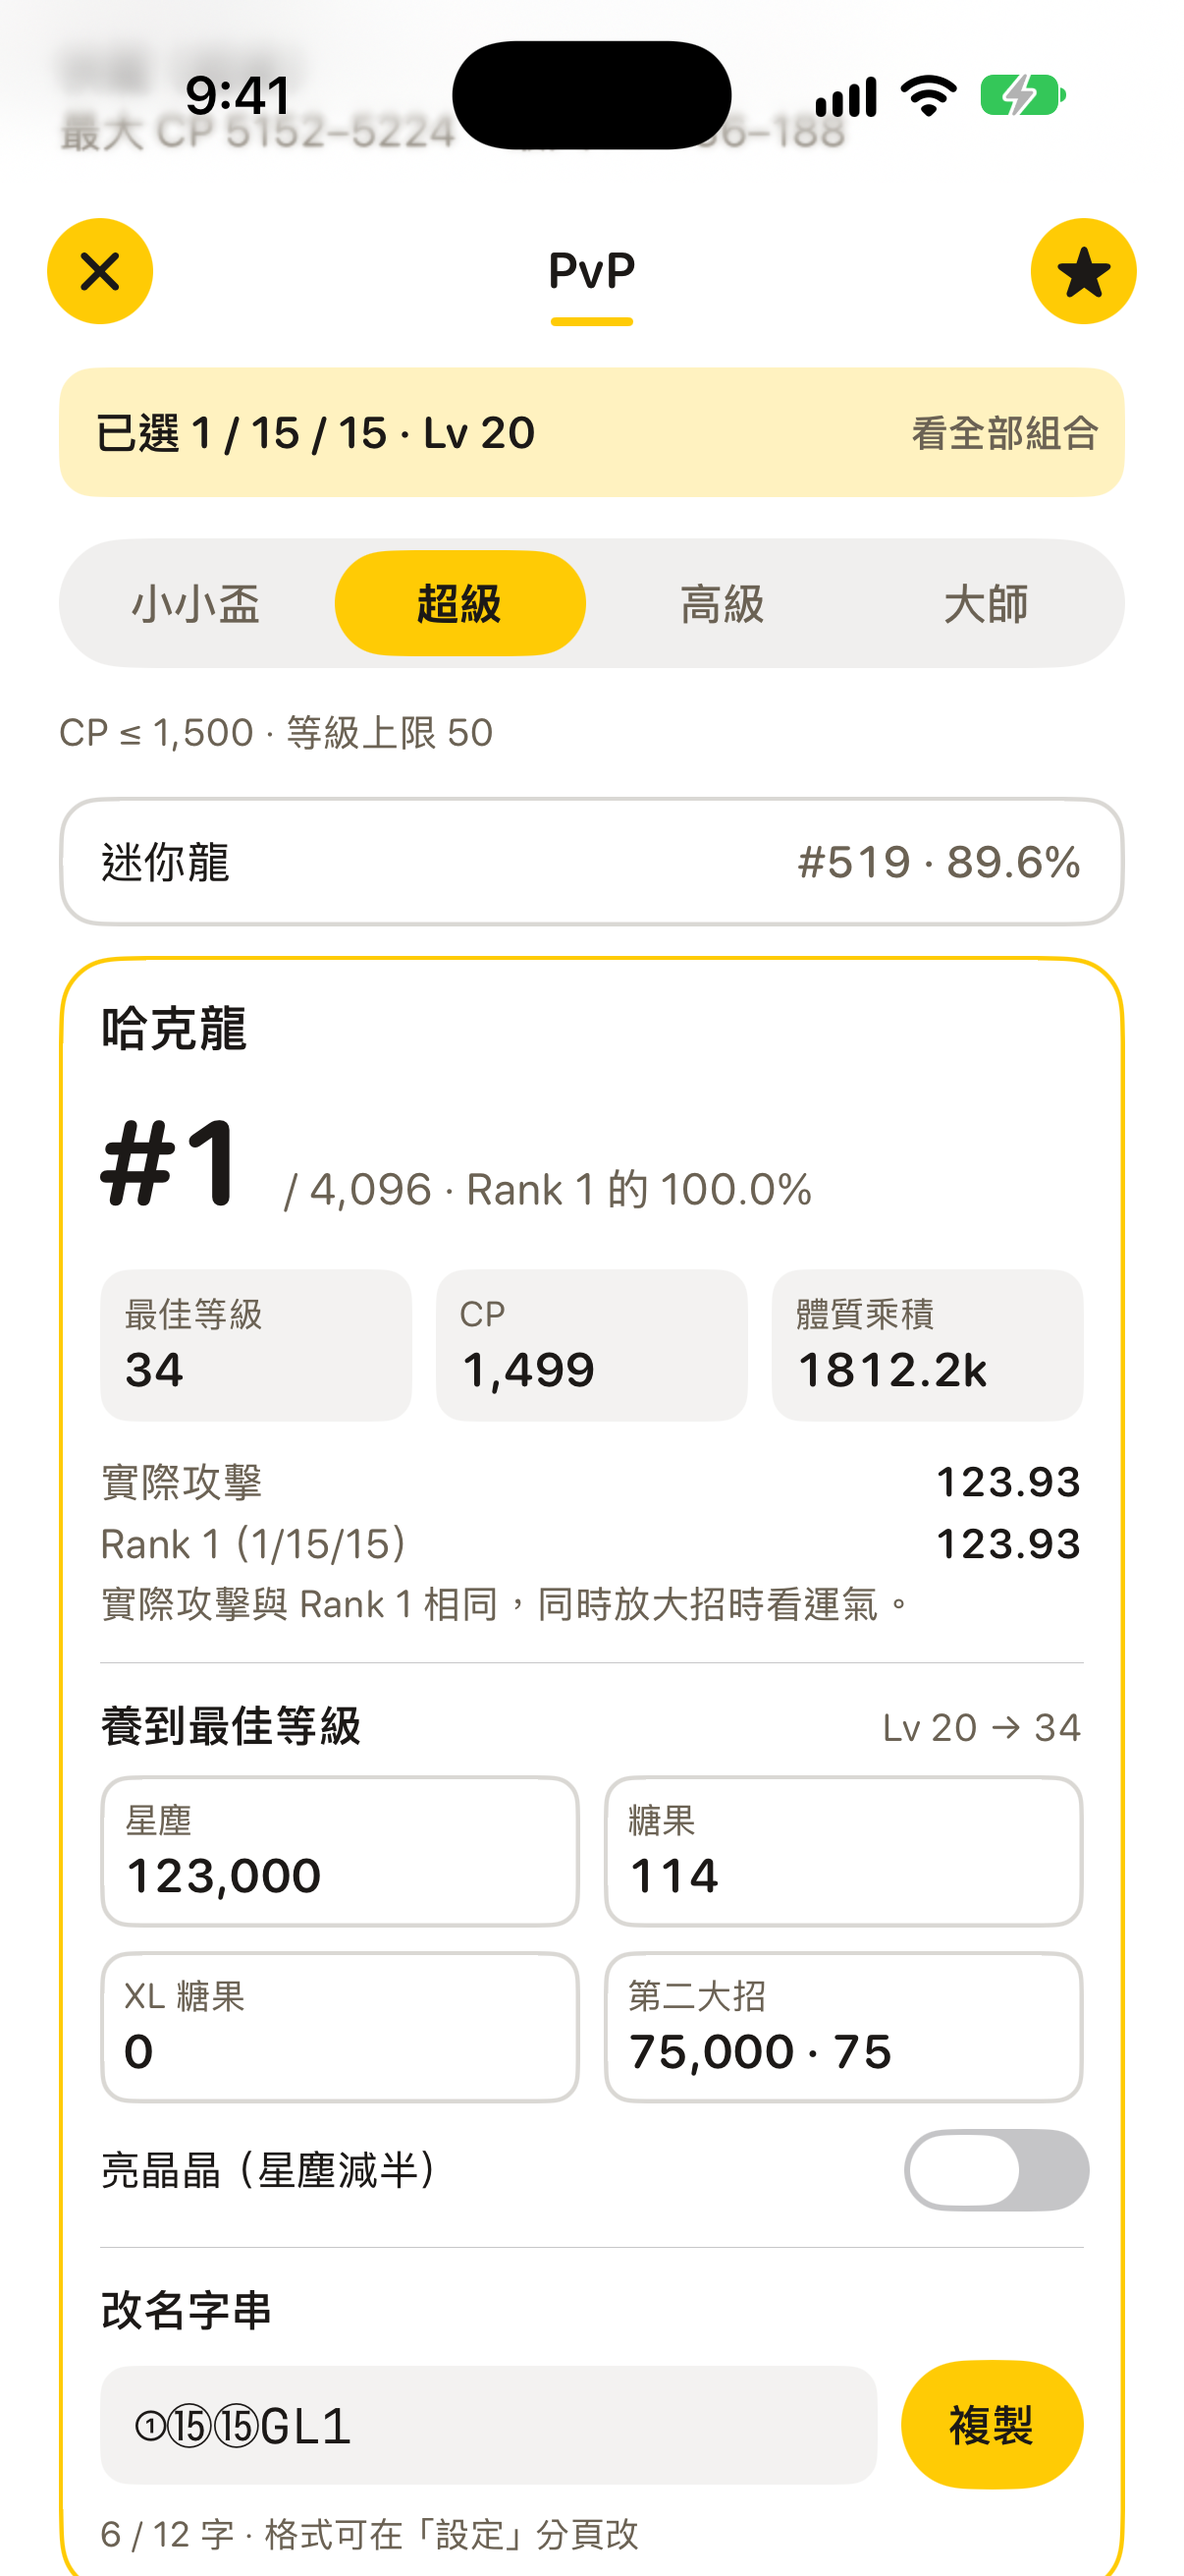
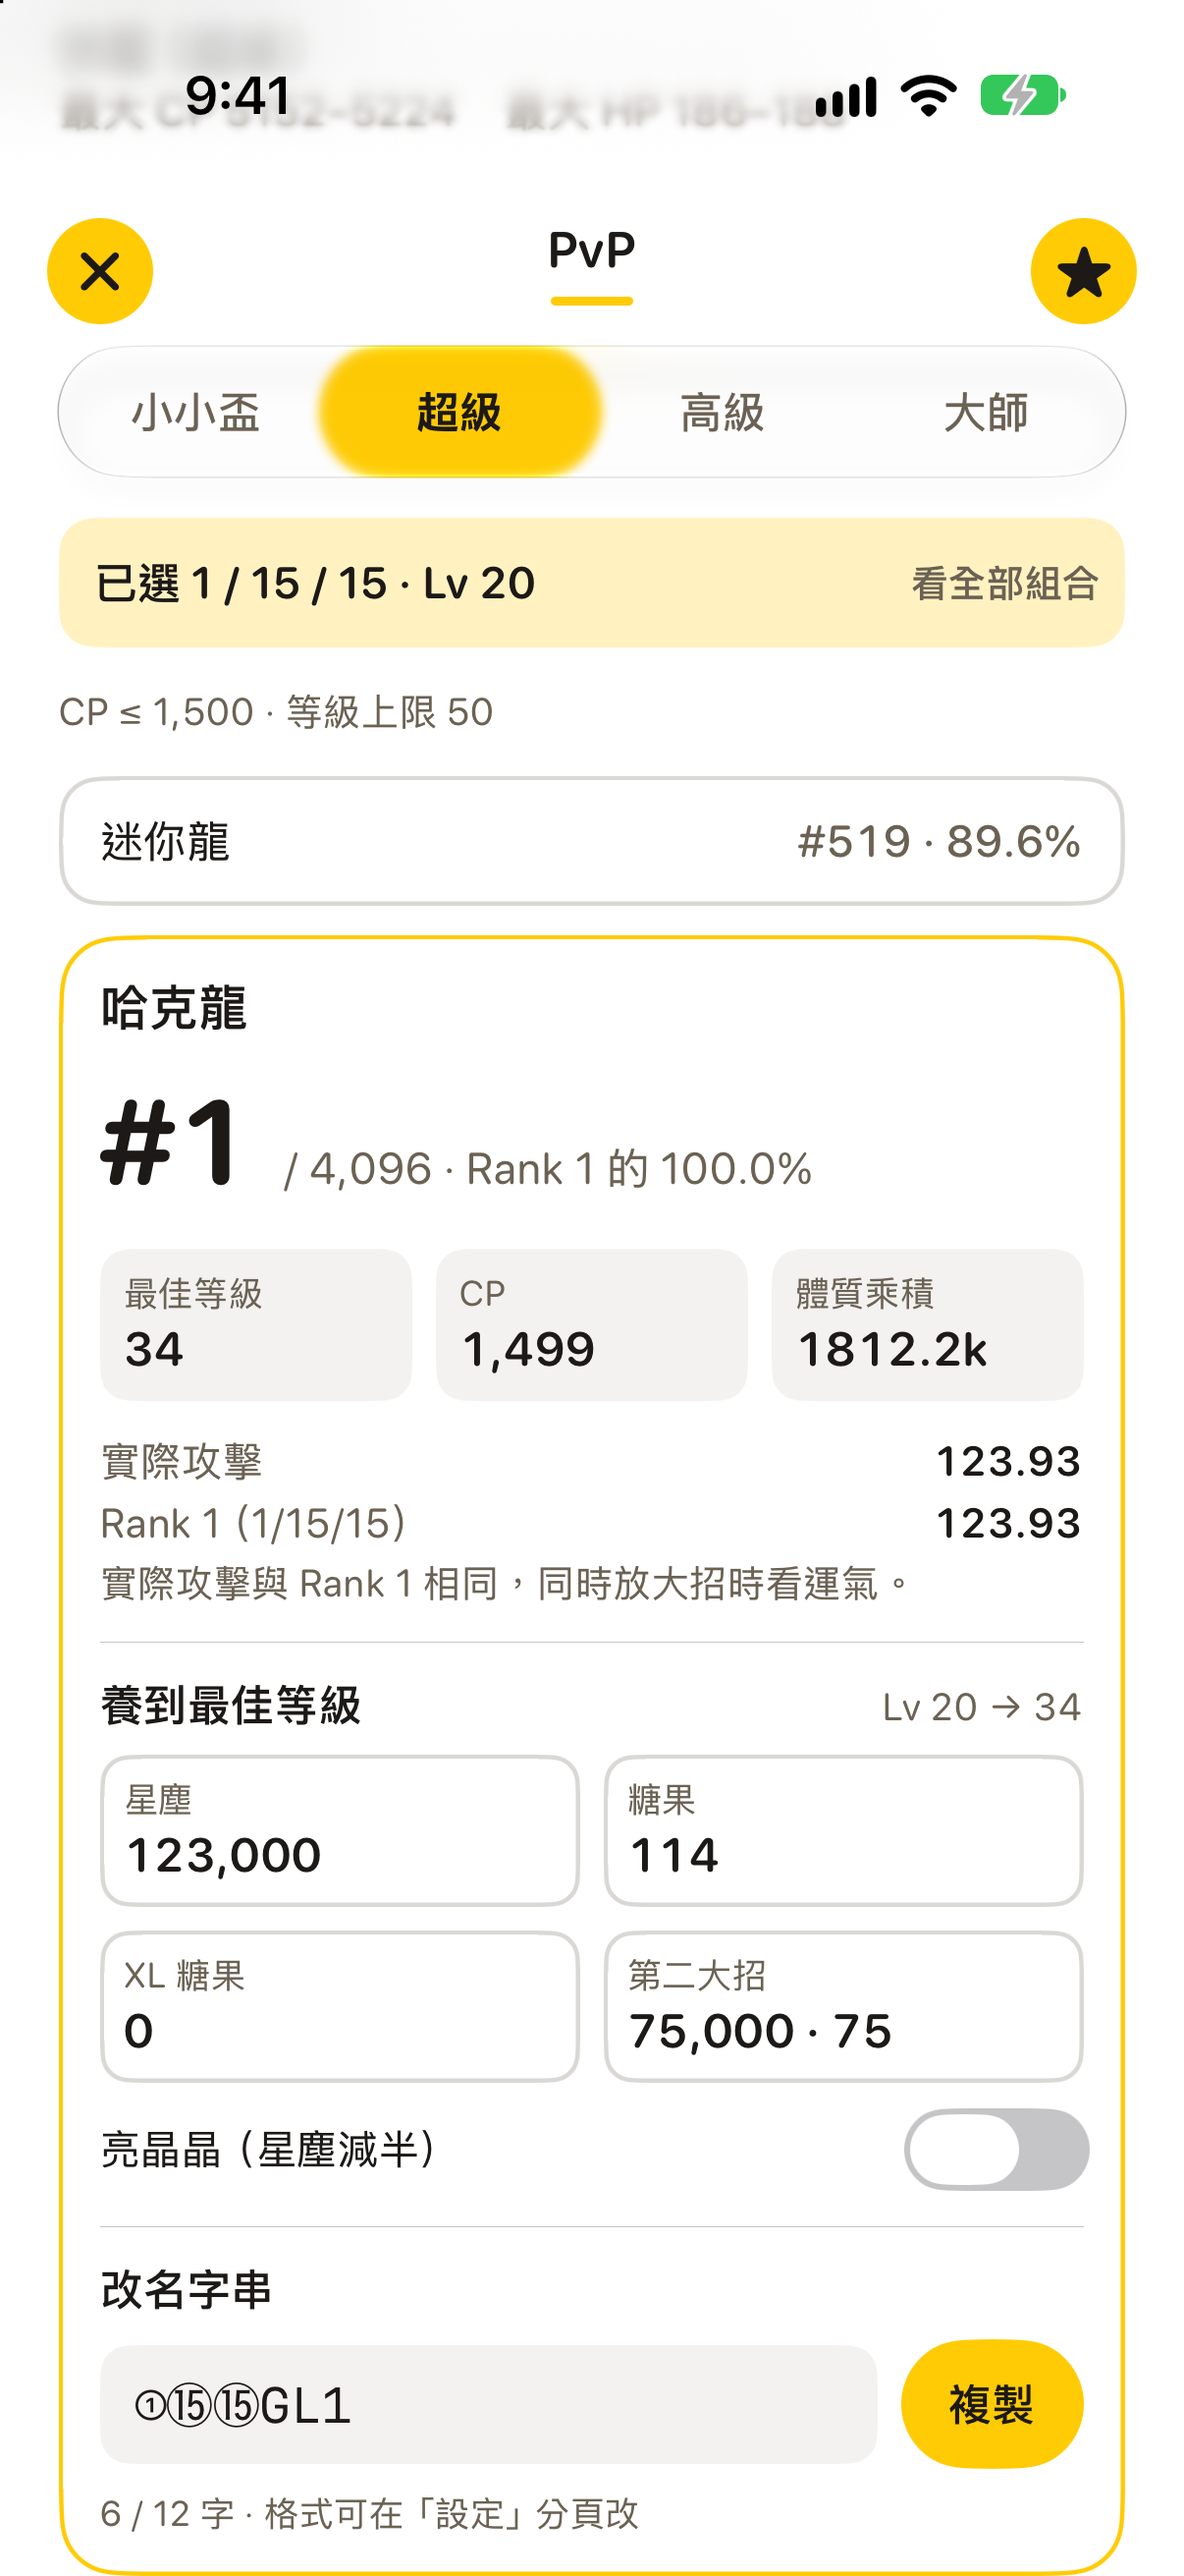
官網配合 1.4.0：強化到指定等級與液態玻璃分段膠囊
介紹頁與操作手冊補強化到指定等級，商店截圖與手冊截圖換成 1.4.0 畫面；查對手範例改為地面＋電。

diff --git a/index.html b/index.html
@@ -129,9 +129,10 @@
         <li><strong>圖鑑</strong>：用編號、中文或英文名搜尋，點牌卡看三圍、屬性、進化、技能，以及各等級 CP、HP。進化後等級 50 的最大 CP、HP 只作參考。圖鑑資料可從 Firebase Storage 的 <code>catalog/species.json</code> 更新；離線時用 App 內建備份。</li>
         <li><strong>訓練師等級</strong>：可選，在 IV 頁左上角或「設定」分頁調整。用來對齊摘要上的等級範圍，不進入 CP 公式。沒設定時，同一組星塵仍可能對應多個等級。</li>
         <li><strong>結果</strong>：百分比環、攻擊／防禦／體力 IV、等級滑桿與下一步建議。可開啟好夥伴加成，看該等級加成後的 CP、HP。範圍很寬時圓環會顯示「?」。</li>
+        <li><strong>強化到指定等級</strong>：在 IV 詳情點一組，挑目標等級（Lv 1–51，有 40／50／51 快捷），看強化後的 CP、HP，以及需要的星塵、糖果與 XL 糖果。跟著 PvP 區塊的亮晶晶與淨化設定計算。</li>
         <li><strong>PvP</strong>：結果頁列出小小盃、超級、高級、大師聯盟的名次（Rank）與佔 Rank 1 的百分比，進化鏈每一階都算。點一組 IV 可看最佳等級、CP、實際攻擊，以及養到該等級需要的星塵、糖果與 XL 糖果，也能一鍵複製改名字串。收藏牌卡會標出最佳名次。</li>
         <li><strong>相剋</strong>：對戰時查屬性。「查對手」選 1–2 個屬性或搜尋名字，看該用什麼打、別用什麼，以及隊伍裡該派誰、別派誰；「我的隊伍」每個聯盟存 3 隻，一眼看到每隻的弱點與抗性。屬性都附上圖示，水、冰、龍這類相似屬性也好分辨。</li>
-        <li><strong>設定</strong>：PvP 等級上限（40／50／51）、IV 保底、預設聯盟、改名格式與訓練師等級。</li>
+        <li><strong>設定</strong>：PvP 等級上限（40／50／51）、IV 保底、預設聯盟、改名格式與訓練師等級。相剋、設定與 PvP 的黃色分段膠囊可以點，也可以左右拖曳切換。</li>
         <li><strong>本機資料</strong>：歷史只存辨識結果與相簿識別碼，<strong>不存截圖檔</strong>。收藏只存你點下的那一組 IV。對戰隊伍只存種類與招式選擇。</li>
         <li><strong>廣告</strong>：IV 頁在「幫精靈評價」下方可能出現原生廣告，結果頁底部可能有橫幅，相剋分頁最下方可能有一張原生廣告。圖鑑與收藏第一層、設定沒有廣告。第一次會問相簿權限；廣告可能再問追蹤許可（ATT），拒絕後改為非個人化。細節見<a href="privacy.html">隱私權</a>。</li>
       </ul>
@@ -193,11 +194,16 @@
 
       <h3 id="zh-results">4. 結果與收藏</h3>
       <p>結果頁有百分比環、攻擊／防禦／體力 IV、等級滑桿與建議。範圍超過約 20 個百分點時，圓環顯示「?」。打開「好夥伴加成」後，該等級的 CP、HP 會標出加成後的數字。右上角星號把<strong>目前這一組</strong>存進收藏。左上角關閉回到 IV 頁。結果頁底部可能有橫幅廣告。往下捲是 PvP 區塊，見下一節。</p>
+      <p>在 IV 詳情表格點一組，表格下方會出現「強化到指定等級」：用 −／＋ 或 Lv 40、50、51 快捷挑目標等級，看強化後的 CP、HP 與星塵、糖果、XL 糖果。50 級以上靠正港好夥伴加成，不花資源。亮晶晶（星塵減半）與暗影的淨化設定在下方 PvP 區塊切換，這張卡會跟著算。</p>
       <p>底部「收藏」可搜尋名稱、編號或 CP。牌卡會標出這組 IV 在預設聯盟的最佳名次，例如「GL #1 · 100.0% · 哈克龍」。點牌卡會先顯示「載入中…」，再開結果，而且只呈現當初收藏的那一組 IV。收藏第一層沒有廣告。</p>
       <div class="manual-shots-row">
         <figure class="manual-shot">
           <img src="store/asc-zh-results.jpg" width="402" height="874" alt="看 IV 範圍和下一步">
           <figcaption>結果頁：IV 範圍、三圍、等級與下一步。</figcaption>
+        </figure>
+        <figure class="manual-shot">
+          <img src="store/asc-zh-powerup.jpg" width="402" height="874" alt="選一組 IV，看強化到指定等級的 CP、HP 與成本">
+          <figcaption>強化到指定等級：CP、HP 與星塵、糖果成本。</figcaption>
         </figure>
         <figure class="manual-shot">
           <img src="store/asc-zh-favorites.jpg" width="402" height="874" alt="把算過的組合留在這台手機">
@@ -231,8 +237,8 @@
       <p>點底部「相剋」。「查對手」選對手的 1–2 個屬性，或在上方搜尋名字（也可打英文名或編號），下方會列出該用什麼屬性打（倍率越高越好）、別用哪些屬性。「我的隊伍」每個聯盟存一組 3 隻，卡片列出每隻的弱點、抗性與招式屬性；可在收藏長按、或結果頁 PvP 區塊加入。查對手時，隊伍卡會告訴你該派哪隻（用這隻打）、別派哪隻（別用），並標出被剋或招式被抵抗；會看隊員設定的招式，沒設招式就用隊員自身屬性。</p>
       <div class="manual-shots-row">
         <figure class="manual-shot">
-          <img src="manual/manual-matchup-opponent-zh.png" width="402" height="874" alt="相剋分頁：查對手，選了火">
-          <figcaption>查對手：火要用地面、岩石、水打；超級聯盟隊伍派瑪力露麗或巨沼怪，盔甲鳥會被剋。</figcaption>
+          <img src="manual/manual-matchup-opponent-zh.png" width="402" height="874" alt="相剋分頁：查對手，選了地面和電">
+          <figcaption>查對手：地面＋電要用地面、水、草、冰打；超級聯盟隊伍派巨沼怪，盔甲鳥與瑪力露麗會被剋。</figcaption>
         </figure>
         <figure class="manual-shot">
           <img src="manual/manual-matchup-team-zh.png" width="402" height="874" alt="相剋分頁：我的隊伍">
@@ -265,9 +271,10 @@
         <li><strong>Dex</strong>: Search by number or name, then open a page for base stats, type, evolution, moves, and CP/HP by level. Level-50 max CP and HP after evolution are reference figures. Catalog data can refresh from Firebase Storage (<code>catalog/species.json</code>) and uses the copy bundled in the app when offline.</li>
         <li><strong>Trainer level</strong>: Optional, set on the IV tab or in Settings. It lines up the level range on the summary and is not part of the CP formula. With it unset, one stardust cost can still match more than one level.</li>
         <li><strong>Results</strong>: A percent ring, attack / defense / HP IVs, a level slider, and a next step. Buddy boost shows that level’s boosted CP and HP. A wide range shows “?” in the ring.</li>
+        <li><strong>Power up to any level</strong>: Tap an IV set in the details table and pick a target level (Lv 1–51, with 40 / 50 / 51 shortcuts) to see the resulting CP and HP and the Stardust, Candy, and XL Candy needed. It follows the Lucky and purified settings in the PvP section.</li>
         <li><strong>PvP</strong>: Results list the rank and percent of rank 1 in Little Cup, Great, Ultra, and Master League for every evolution stage. Tap an IV set to see its best level, CP, attack, and the Stardust, Candy, and XL Candy needed to get there, and copy a nickname in one tap. Saved cards show the best rank.</li>
         <li><strong>Matchups</strong>: Check types during a battle. In Opponent, pick one or two types or search a name to see what hits it hard, what to avoid, and which team member to send in or keep out. In My Team, save three members per league and see each one’s weaknesses and resistances at a glance. Every type has an icon, so similar types such as Water, Ice, and Dragon are easy to tell apart.</li>
-        <li><strong>Settings</strong>: PvP level cap (40 / 50 / 51), IV floor, default league, nickname format, and trainer level.</li>
+        <li><strong>Settings</strong>: PvP level cap (40 / 50 / 51), IV floor, default league, nickname format, and trainer level. The yellow segmented controls in Matchups, Settings, and PvP switch with a tap or a sideways drag.</li>
         <li><strong>On this device</strong>: History stores the reading and a photo identifier, <strong>not the image file</strong>. Saved stores only the IV set you starred. Battle teams store only the species and move choices.</li>
         <li><strong>Ads</strong>: The IV tab may show a native ad under Appraise, and the results screen may show a banner, and the bottom of the Matchups tab may show one native ad. The Dex list, Dex detail, Saved list, and Settings do not. The app asks for photo access, and ads may ask for tracking permission (ATT); declining uses non-personalized ads. Details are on the <a href="privacy.html">Privacy</a> page.</li>
       </ul>
@@ -329,11 +336,16 @@
 
       <h3 id="en-results">4. Results and Saved</h3>
       <p>Results show the percent ring, attack, defense, and HP IVs, a level slider, and a suggestion. A spread of about 20 points or more shows “?” in the ring. Buddy boost marks that level’s boosted CP and HP. The star at the top right saves <strong>the set you are viewing</strong>. Close returns to the IV tab. A banner may sit at the bottom. Scroll down for the PvP section, covered next.</p>
+      <p>Tap a set in the IV details table and “Power up to any level” appears under the table. Use − / + or the Lv 40, 50, and 51 shortcuts to pick a target level and see the resulting CP and HP and the Stardust, Candy, and XL Candy cost. Levels above 50 come from the Best Buddy boost and cost nothing. Lucky (half Stardust) and the purified switch for shadow Pokémon live in the PvP section below, and the card follows them.</p>
       <p>The Saved tab searches by name, number, or CP. Each card shows the set’s best rank in the default league, such as “GL #1 · 100.0% · Dragonair”. Tapping a card shows a loading state, then the result for only the IV set that was saved. The Saved list has no ad.</p>
       <div class="manual-shots-row">
         <figure class="manual-shot">
           <img src="store/asc-en-results.jpg" width="402" height="874" alt="See the IV range and the next step">
           <figcaption>Results: IV range and the next step.</figcaption>
+        </figure>
+        <figure class="manual-shot">
+          <img src="store/asc-en-powerup.jpg" width="402" height="874" alt="Pick an IV set to see CP, HP, and cost at any level">
+          <figcaption>Power up to any level: CP, HP, and Stardust and Candy cost.</figcaption>
         </figure>
         <figure class="manual-shot">
           <img src="store/asc-en-favorites.jpg" width="402" height="874" alt="Save sets on this phone">
@@ -367,8 +379,8 @@
       <p>Open the Matchups tab. In Opponent, pick one or two of the opponent’s types, or search a name at the top (English name or number also works). Below you see which types hit it hard (higher is better) and which to avoid. In My Team, save a team of three for each league; each card lists weaknesses, resistances, and move types. Add members from a saved entry’s long-press menu or the PvP section of a result. The lookup also tells you which team member to send in and which to avoid, and why (weak to it, or moves resisted). It uses the moves you set for each member, or the member’s own types if none are set.</p>
       <div class="manual-shots-row">
         <figure class="manual-shot">
-          <img src="manual/manual-matchup-opponent-en.png" width="402" height="874" alt="Matchups tab: Opponent with Fire picked">
-          <figcaption>Opponent: hit Fire with Ground, Rock, or Water; send in Azumarill or Swampert, and keep Skarmory out.</figcaption>
+          <img src="manual/manual-matchup-opponent-en.png" width="402" height="874" alt="Matchups tab: Opponent with Ground and Electric picked">
+          <figcaption>Opponent: hit Ground + Electric with Ground, Water, Grass, or Ice; send in Swampert, and keep Skarmory and Azumarill out.</figcaption>
         </figure>
         <figure class="manual-shot">
           <img src="manual/manual-matchup-team-en.png" width="402" height="874" alt="Matchups tab: My Team">
